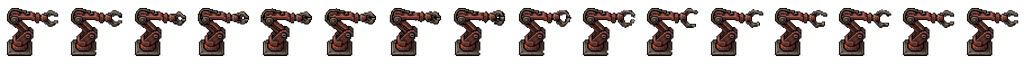
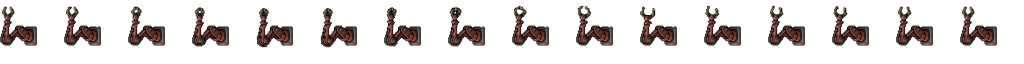
Манипулятор: центрирование, зеркало по Y, ускорение, увеличенный масштаб
Правки по серии визуальных замечаний к man.gif:
- Основание руки пересчитано и перецентровано точно на середину тайла
  (измерил координаты плиты по линейке на спрайте, пересчитал
  масштаб+сдвиг так, чтобы вся рука с клешнёй помещалась в 64×64 без
  обрезки при центрированном основании).
- Переход захват↔выкладка — зеркало по Y (scale.y), а не поворот на
  180°: поворот ставил руку "вверх ногами", зеркало держит её в
  исходной ориентации.
- Дефолтное (idle) положение теперь зеркальное; обычное (немиррор.)
  появляется только между захватом и выкладкой.
- Анимация значительно ускорена (animationSpeed 0.1 → 0.4), GRAB_MS
  в core/nodes/manipulator.ts синхронизирован под новую скорость
  (1350мс → 350мс), чтобы фаза захвата не обрывалась раньше времени.
- Визуальный масштаб увеличен (MANIPULATOR_VISUAL_SCALE = 1.4) —
  для этого станка вылезание за границы своего тайла осознанно
  допустимо (в отличие от остальных станков), иначе руке не хватает
  размаха читаться как "дотягивается до соседних тайлов".

diff --git a/web/src/game/machines.ts b/web/src/game/machines.ts
@@ -11,10 +11,15 @@ interface MachineSprite {
   statusLamp: Graphics;
   chargeBar?: Graphics; // только у accumulator (E1)
   lastStatus?: NodeStatus; // для edge-detection перехода в/из 'working' (см. updateMachineStatus)
-  manipulatorFlipped?: boolean; // manipulator: развёрнут на 180° между «забором» и «выкладкой»
+  manipulatorFlipped?: boolean; // manipulator: зеркальное (дефолт/idle) vs обычное (между захватом и выкладкой)
 }
 
 const machineSprites = new Map<string, MachineSprite>();
+
+// manipulator визуально крупнее своего 1×1 footprint — руке нужен размах, чтобы
+// читалось как "дотягивается до соседних тайлов"; вылезание за границы клетки
+// тут осознанно допустимо (в отличие от остальных станков).
+const MANIPULATOR_VISUAL_SCALE = 1.4;
 
 const STATUS_COLORS: Record<NodeStatus, number> = {
   idle: 0x5a5445,     // тускло-жёлтый (idle, дизайн-макет Factory.exe)
@@ -154,6 +159,11 @@ function updateMachines(entities: Record<string, Entity>, layer: Container): voi
       layer.addChild(container);
 
       machineSprite = { container, sprite, statusLamp, chargeBar };
+      // manipulator: изначально зеркальное положение — обычное (немирорированное) появляется
+      // только между захватом и выкладкой (см. triggerManipulatorGrab/Release)
+      if (entity.kind === 'manipulator') {
+        machineSprite.manipulatorFlipped = true;
+      }
       machineSprites.set(id, machineSprite);
     }
 
@@ -165,9 +175,13 @@ function updateMachines(entities: Record<string, Entity>, layer: Container): voi
 
     machineSprite.sprite.pivot.set(size.w * TILE * 0.5, size.h * TILE * 0.5);
     machineSprite.sprite.position.set(rotatedSize.w * TILE * 0.5, rotatedSize.h * TILE * 0.5);
-    // manipulator: +180° поверх dir, пока развёрнут на "выкладку" (см. triggerManipulatorGrab/Release)
-    const flip = entity.kind === 'manipulator' && machineSprite.manipulatorFlipped ? 180 : 0;
-    machineSprite.sprite.angle = entity.dir * 90 + flip;
+    machineSprite.sprite.angle = entity.dir * 90;
+    // manipulator: зеркалим по Y, пока развёрнут на "выкладку" (см. triggerManipulatorGrab/Release) —
+    // поворот на 180° ставил руку "вверх ногами", зеркало держит её в исходной ориентации.
+    if (entity.kind === 'manipulator') {
+      const mirrored = machineSprite.manipulatorFlipped ? -1 : 1;
+      machineSprite.sprite.scale.set(MANIPULATOR_VISUAL_SCALE, mirrored * MANIPULATOR_VISUAL_SCALE);
+    }
   }
 }
 
@@ -229,11 +243,17 @@ function updateMachineStatus(
   }
 }
 
+// Заметно быстрее общего animationSpeed 0.1 (миnер/assembler/silo) — короткий
+// резкий жест захвата/выкладки, а не медленная работа станка (GRAB_MS в
+// core/nodes/manipulator.ts подогнан под эту же скорость).
+const MANIPULATOR_ANIM_SPEED = 0.4;
+
 /**
  * Манипулятор: захват предмета — первые 8 кадров work-анимации (man.gif), затем
- * поворот на 180° (переход от «забора» с BACK к «выкладке» на FRONT — одна и та
- * же рука-анимация переиспользуется на обе фазы). Вызывается из runtime.ts по
- * packet-consume (nodeId есть в событии напрямую).
+ * зеркалим по X (переход от «забора» с BACK к «выкладке» на FRONT — одна и та же
+ * рука-анимация переиспользуется на обе фазы; зеркало вместо поворота на 180°,
+ * иначе рука встаёт "вверх ногами"). Вызывается из runtime.ts по packet-consume
+ * (nodeId есть в событии напрямую).
  */
 export function triggerManipulatorGrab(nodeId: string): void {
   const machineSprite = machineSprites.get(nodeId);
@@ -245,10 +265,12 @@ export function triggerManipulatorGrab(nodeId: string): void {
   const sprite = machineSprite.sprite;
   sprite.stop();
   sprite.loop = false;
+  sprite.animationSpeed = MANIPULATOR_ANIM_SPEED;
   sprite.textures = frames.slice(0, 8);
   sprite.onComplete = () => {
-    machineSprite.manipulatorFlipped = true;
-    sprite.angle += 180;
+    // Дефолт (idle) — зеркальное положение; после захвата — обычное (см. создание спрайта выше)
+    machineSprite.manipulatorFlipped = false;
+    sprite.scale.y = Math.abs(sprite.scale.y);
   };
   sprite.gotoAndPlay(0);
 }
@@ -268,10 +290,12 @@ export function triggerManipulatorRelease(nodeId: string): void {
   const sprite = machineSprite.sprite;
   sprite.stop();
   sprite.loop = false;
+  sprite.animationSpeed = MANIPULATOR_ANIM_SPEED;
   sprite.textures = frames.slice(8, 16);
   sprite.onComplete = () => {
-    machineSprite.manipulatorFlipped = false;
-    sprite.angle -= 180;
+    // Возврат к дефолтному зеркальному положению — готов к следующему циклу
+    machineSprite.manipulatorFlipped = true;
+    sprite.scale.y = -Math.abs(sprite.scale.y);
     const idle = getTexture('manipulator', 'idle');
     if (!Array.isArray(idle)) {
       sprite.texture = idle;

diff --git a/web/src/core/nodes/manipulator.ts b/web/src/core/nodes/manipulator.ts
@@ -12,8 +12,8 @@ export const manipulatorSchema: Field[] = [];
 
 // Визуальная пауза «захвата» — без неё handler резолвится мгновенно, и фаза
 // грэба (первые 8 кадров man.gif, machines.ts:triggerManipulatorGrab) не успевает
-// доиграть до поворота на выкладку. 8 кадров × animationSpeed 0.1 (~6 кадров/с) ≈ 1.35с.
-const GRAB_MS = 1350;
+// доиграть до поворота на выкладку. 8 кадров × animationSpeed 0.4 (~24 кадра/с) ≈ 0.35с.
+const GRAB_MS = 350;
 
 export const manipulatorHandler: Handler = async (ctx: NodeCtx) => {
   await new Promise((resolve) => setTimeout(resolve, GRAB_MS));

diff --git a/docs/05-nodes-catalog.md b/docs/05-nodes-catalog.md
@@ -103,7 +103,7 @@ export type Handler = (ctx: NodeCtx) => Promise<HandlerResult>;
 - handler: чистый passthrough — `{ out: data }`, данные не меняются.
 - **Обязательный посредник для любой передачи станок↔станок** (см. docs/03) — без манипулятора хотя бы на одном конце связи (лента→станок, станок→лента, станок вплотную к станку) `buildGraph` НЕ создаёт рабочий Edge: лента-путь без манипулятора на конце превращается в тупик (`to: null`, пакет падает), а два станка вплотную без манипулятора между ними не связаны вообще (0 edges). Исключение — belt↔belt (просто конвейер, манипулятор не нужен).
 - Вход принимается с любого соседнего тайла (при footprint 1×1 сторона BACK/LEFT/RIGHT неразличима, см. docs/03), выход — только FRONT (`dir`).
-- Визуал (`man.gif` → `manipulator_work.png`, 16 кадров) — не generic idle↔work по `status`, а своя схема на 8+8 кадров (`game/machines.ts`): `packet-consume` → кадры 0–7 (захват), по завершении спрайт разворачивается на 180°, `packet-spawn` от той же позиции → кадры 8–15 (выкладка), затем поворот обратно и статичный idle-кадр. `GRAB_MS` в `core/nodes/manipulator.ts` держит handler ровно на длительность фазы захвата, иначе поворот срабатывал бы раньше, чем доиграет анимация.
+- Визуал (`man.gif` → `manipulator_work.png`, 16 кадров) — не generic idle↔work по `status`, а своя схема на 8+8 кадров (`game/machines.ts`): `packet-consume` → кадры 0–7 (захват), по завершении спрайт зеркалится по X (`scale.x *= -1` — не поворот на 180°, иначе рука встаёт «вверх ногами»), `packet-spawn` от той же позиции → кадры 8–15 (выкладка), затем зеркало снимается и статичный idle-кадр. `GRAB_MS` в `core/nodes/manipulator.ts` держит handler ровно на длительность фазы захвата, иначе зеркалирование срабатывало бы раньше, чем доиграет анимация.
 
 ## Безопасность (осознанные хакатон-допущения)
 
